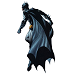
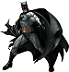
week5_day2_(HeroGame_refactored/AicraftCarrier_methods added)

diff --git a/week05/day02/src/Board.java b/week05/day02/src/Board.java
@@ -8,34 +8,11 @@ public class Board extends JComponent implements KeyListener {
     int testBoxX;
     int testBoxY;
     String fileName;
+    int[][] wallArray;
+    Hero batman;
 
     public Board() {
-        testBoxX = 0;
-        testBoxY = 0;
-        fileName = "hero-down.png";
-
-
-        // set the size of your draw board
-        setPreferredSize(new Dimension(720, 720));
-        setVisible(true);
-    }
-
-    @Override
-    public void paint(Graphics graphics) {
-        super.paint(graphics);
-        graphics.fillRect(testBoxX, testBoxY, 72, 72);
-        // here you have a 720x720 canvas
-        // you can create and draw an image using the class below e.g.
-        PositionedImage floor = new PositionedImage("floor.png", 0, 0);
-        PositionedImage wall = new PositionedImage("wall.png", 0, 0);
-        for (int i = 0; i < 10; i++) {
-            for (int j = 0; j < 10; j++) {
-                floor.posX = i;
-                floor.posY = j;
-                floor.draw(graphics);
-            }
-        }
-        int[][]wallArray = new int [][]{
+        wallArray = new int [][]{
                 {0,0,0,1,0,1,0,0,0,0},
                 {0,0,0,1,0,1,0,1,1,0},
                 {0,1,1,1,0,1,0,1,1,0},
@@ -46,24 +23,38 @@ public class Board extends JComponent implements KeyListener {
                 {0,0,0,0,0,1,1,0,1,0},
                 {0,1,1,1,0,0,0,0,1,0},
                 {0,0,0,0,0,1,1,0,1,0},
-                };
+        };
+
+        // set the size of your draw board
+        setPreferredSize(new Dimension(720, 720));
+        setVisible(true);
+
+        batman = new Hero();
+
+    }
+
+    @Override
+    public void paint(Graphics graphics) {
+        super.paint(graphics);
+      //  graphics.fillRect(testBoxX, testBoxY, 72, 72);
+        // here you have a 720x720 canvas
+        // you can create and draw an image using the class below e.g.
+        PositionedImage floor = new PositionedImage("floor.png", 0, 0);
+        PositionedImage wall = new PositionedImage("wall.png", 0, 0);
         for (int i = 0; i < wallArray.length; i++) {
             for (int j = 0; j < wallArray.length; j++) {
                 if (wallArray[i][j] == 1) {
                     wall.posX = i;
                     wall.posY = j;
                     wall.draw(graphics);
+                }else{
+                    floor.posX = i;
+                    floor.posY = j;
+                    floor.draw(graphics);
                 }
             }
         }
-        PositionedImage heroDown = new PositionedImage(fileName, testBoxX, testBoxY);
-        heroDown.draw(graphics);
-        PositionedImage heroUp = new PositionedImage(fileName, testBoxX, testBoxY);
-        heroUp.draw(graphics);
-        PositionedImage heroRight = new PositionedImage(fileName, testBoxX, testBoxY);
-        heroRight.draw(graphics);
-        PositionedImage heroLeft = new PositionedImage(fileName, testBoxX, testBoxY);
-        heroLeft.draw(graphics);
+        batman.draw(graphics);
     }
 
     // To be a KeyListener the class needs to have these 3 methods in it
@@ -82,20 +73,18 @@ public class Board extends JComponent implements KeyListener {
     public void keyReleased(KeyEvent e) {
         // When the up or down keys hit, we change the position of our box
         if (e.getKeyCode() == KeyEvent.VK_UP) {
-            fileName = "hero-up.png";
-            testBoxY --;
+            batman.posY--;
+            batman.heroUp();
         } else if(e.getKeyCode() == KeyEvent.VK_DOWN) {
-            fileName = "hero-down.png";
-            testBoxY ++;
+            batman.posY++;
+            batman.heroDown();
         } else if(e.getKeyCode() == KeyEvent.VK_LEFT) {
-            fileName = "hero-left.png";
-            testBoxX --;
+            batman.posX--;
+            batman.heroLeft();
         } else if(e.getKeyCode() == KeyEvent.VK_RIGHT) {
-            fileName = "hero-right.png";
-            testBoxX ++;
+            batman.posX++;
+            batman.heroRight();
         }
-        System.out.println(testBoxX);
-        System.out.println(testBoxY);
         // and redraw to have a new picture with the new coordinates
         repaint();
     }

diff --git a/week04/day2/AircraftCarrier/src/Aircraft.java b/week04/day2/AircraftCarrier/src/Aircraft.java
@@ -6,22 +6,40 @@ public class Aircraft {
     String aircraftType;
 
 
-    public Aircraft(int tolteny, int baseDamage, String tipusa){
+    public Aircraft(String tipusa){
 
         aircraftType = tipusa;
-        maxAmmo = tolteny;
-        this.baseDamage = baseDamage;
+        if(tipusa=="F16")
+        {
+            maxAmmo = 8;
+            this.baseDamage = 30;
+            currentAmmo = 0;
+        }
+        else
+        { //F35
+            maxAmmo = 12;
+            this.baseDamage = 50;
+            currentAmmo = 0;
+        }
+
     }
 
-    public int fight(){
-        int damageAll = baseDamage*maxAmmo;
-        int ammoSet = (currentAmmo = 0);
-
+    public int fight()
+    {
+        int damageAll = baseDamage*currentAmmo;
+        currentAmmo = 0;
         return damageAll;
     }
 
-    public int refill(int ammoInput){
-        int ammoRemain = (ammoInput-maxAmmo);
+    public int refill(int ammoInput)
+    {
+        int ammoRemain = 0;
+        if(ammoInput>=maxAmmo) {
+            currentAmmo = maxAmmo;
+            ammoRemain = ammoInput - maxAmmo;
+        }else {
+            currentAmmo = ammoInput;
+        }
         return ammoRemain;
     }
 
@@ -32,7 +50,7 @@ public class Aircraft {
 
     public String getStatus(){
 
-        String status = this.aircraftType;
+        String status = "Type: " + aircraftType + " Ammo: " + currentAmmo + " Base damage: " + baseDamage + " All damage: " + baseDamage * currentAmmo;
         return status;
     }
 }

diff --git a/week05/day02/src/Hero.java b/week05/day02/src/Hero.java
@@ -1,0 +1,43 @@
+import javax.imageio.ImageIO;
+import java.awt.*;
+import java.io.File;
+import java.io.IOException;
+
+public class Hero extends PositionedImage {
+
+    public Hero(){
+        super("bat-down.png", 0,0);
+
+    }
+    public void heroUp (){
+        try {
+            image = ImageIO.read(new File("bat-down.png"));
+        } catch (IOException e) {
+            e.printStackTrace();
+        }
+    }
+
+    public void heroDown (){
+        try {
+            image = ImageIO.read(new File("bat-down.png"));
+        } catch (IOException e) {
+            e.printStackTrace();
+        }
+    }
+
+    public void heroRight (){
+        try {
+            image = ImageIO.read(new File("bat-right.png"));
+        } catch (IOException e) {
+            e.printStackTrace();
+        }
+    }
+
+    public void heroLeft (){
+        try {
+            image = ImageIO.read(new File("bat-left.png"));
+        } catch (IOException e) {
+            e.printStackTrace();
+        }
+    }
+}

diff --git a/week04/day2/AircraftCarrier/src/Main.java b/week04/day2/AircraftCarrier/src/Main.java
@@ -2,8 +2,8 @@ public class Main {
 
     public static void main(String[] args) {
 
-        Aircraft f16 = new Aircraft(3, 4, "F16");
-        System.out.println(f16.aircraftType);
+        Aircraft f16 = new Aircraft("F16");
+        System.out.println(f16.getStatus());
 
 
     }

diff --git a/week05/day02/src/PositionedImage.java b/week05/day02/src/PositionedImage.java
@@ -9,6 +9,10 @@ public class PositionedImage {
     BufferedImage image;
     int posX, posY;
 
+    public PositionedImage(){
+
+    }
+
     public PositionedImage(String filename, int posX, int posY) {
         this.posX = posX;
         this.posY = posY;
